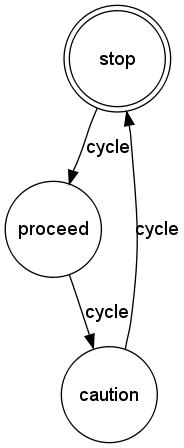
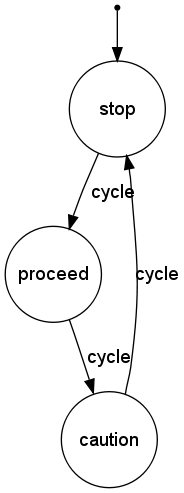
Use the standard visualizations for initial (open arrow) and final (double circle) states Fix states with only outgoing loopbacks not being considered final

diff --git a/test/unit/state_test.rb b/test/unit/state_test.rb
@@ -291,6 +291,14 @@ class StateFinalTest < Test::Unit::TestCase
     
     assert @state.final?
   end
+  
+  def test_should_be_final_with_loopback
+    @machine.event :ignite do
+      transition :parked => same
+    end
+    
+    assert @state.final?
+  end
 end
 
 class StateNotFinalTest < Test::Unit::TestCase
@@ -318,14 +326,6 @@ class StateNotFinalTest < Test::Unit::TestCase
   def test_should_not_be_final_with_outgoing_blacklist_transitions
     @machine.event :ignite do
       transition all - :first_gear => :idling
-    end
-    
-    assert !@state.final?
-  end
-  
-  def test_should_not_be_final_with_loopback
-    @machine.event :ignite do
-      transition :parked => same
     end
     
     assert !@state.final?
@@ -591,6 +591,9 @@ begin
   class StateDrawingTest < Test::Unit::TestCase
     def setup
       @machine = StateMachine::Machine.new(Class.new)
+      @machine.event :ignite do
+        transition :parked => :idling
+      end
       @state = StateMachine::State.new(@machine, :parked, :value => 1)
       
       graph = GraphViz.new('G')
@@ -621,14 +624,22 @@ begin
   class StateDrawingInitialTest < Test::Unit::TestCase
     def setup
       @machine = StateMachine::Machine.new(Class.new)
+      @machine.event :ignite do
+        transition :parked => :idling
+      end
       @state = StateMachine::State.new(@machine, :parked, :initial => true)
       
-      graph = GraphViz.new('G')
-      @node = @state.draw(graph)
+      @graph = GraphViz.new('G')
+      @node = @state.draw(@graph)
     end
     
-    def test_should_use_doublecircle_as_shape
-      assert_equal 'doublecircle', @node['shape']
+    def test_should_use_ellipse_as_shape
+      assert_equal 'ellipse', @node['shape']
+    end
+    
+    def test_should_draw_edge_between_point_and_state
+      assert_equal 2, @graph.node_count
+      assert_equal 1, @graph.edge_count
     end
   end
   
@@ -680,8 +691,8 @@ begin
       @node = @state.draw(graph)
     end
     
-    def test_should_set_penwidth_to_one
-      assert_equal '1', @node['penwidth']
+    def test_should_use_ellipse_as_shape
+      assert_equal 'ellipse', @node['shape']
     end
   end
   
@@ -694,8 +705,8 @@ begin
       @node = @state.draw(graph)
     end
     
-    def test_should_set_penwidth_to_three
-      assert_equal '3', @node['penwidth']
+    def test_should_use_doublecircle_as_shape
+      assert_equal 'doublecircle', @node['shape']
     end
   end
 rescue LoadError

diff --git a/lib/state_machine/state.rb b/lib/state_machine/state.rb
@@ -75,7 +75,7 @@ module StateMachine
       !machine.events.any? do |event|
         event.guards.any? do |guard|
           guard.state_requirements.any? do |requirement|
-            requirement[:from].matches?(name)
+            requirement[:from].matches?(name) && !requirement[:to].matches?(name, :from => name)
           end
         end
       end
@@ -195,13 +195,17 @@ module StateMachine
     # 
     # The actual node generated on the graph will be returned.
     def draw(graph)
-      graph.add_node(name ? name.to_s : 'nil',
+      node = graph.add_node(name ? name.to_s : 'nil',
         :label => description,
         :width => '1',
         :height => '1',
-        :shape => initial? ? 'doublecircle' : 'ellipse',
-        :penwidth => final? ? '3' : '1'
+        :shape => final? ? 'doublecircle' : 'ellipse'
       )
+      
+      # Add open arrow for initial state
+      graph.add_edge(graph.add_node('starting_state', :shape => 'point'), node) if initial?
+      
+      node
     end
     
     # Generates a nicely formatted description of this state's contents.
